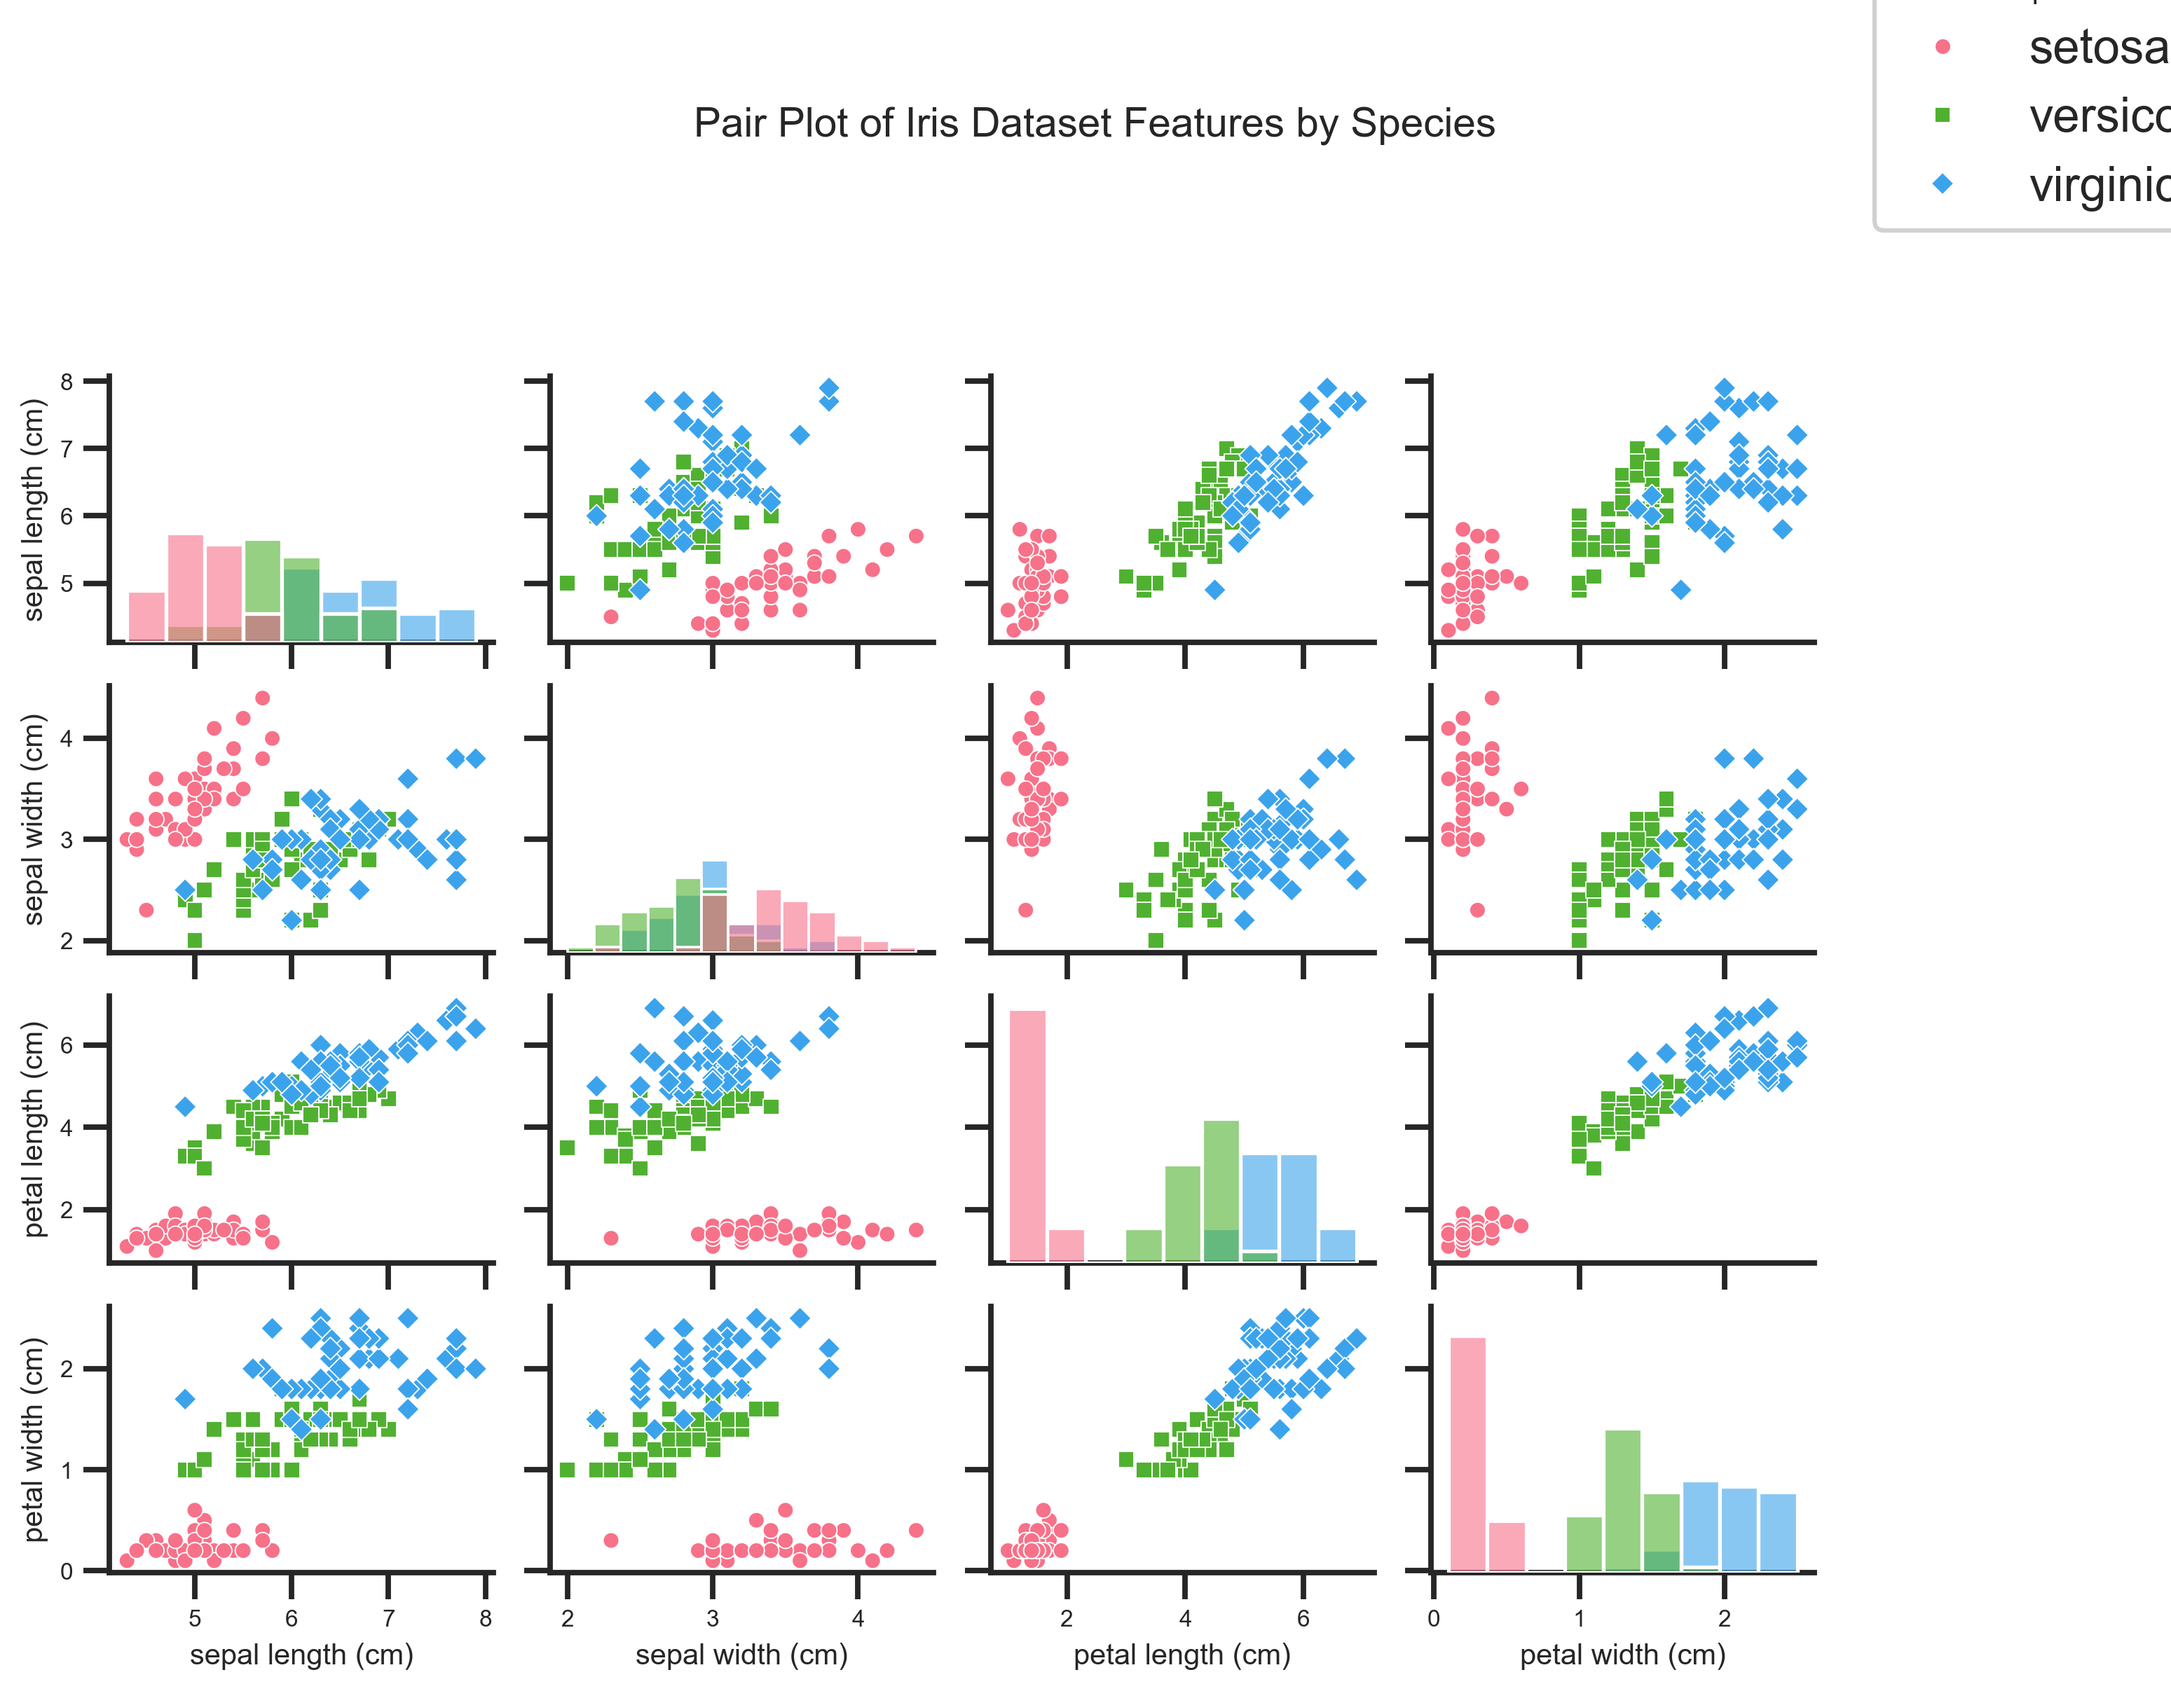
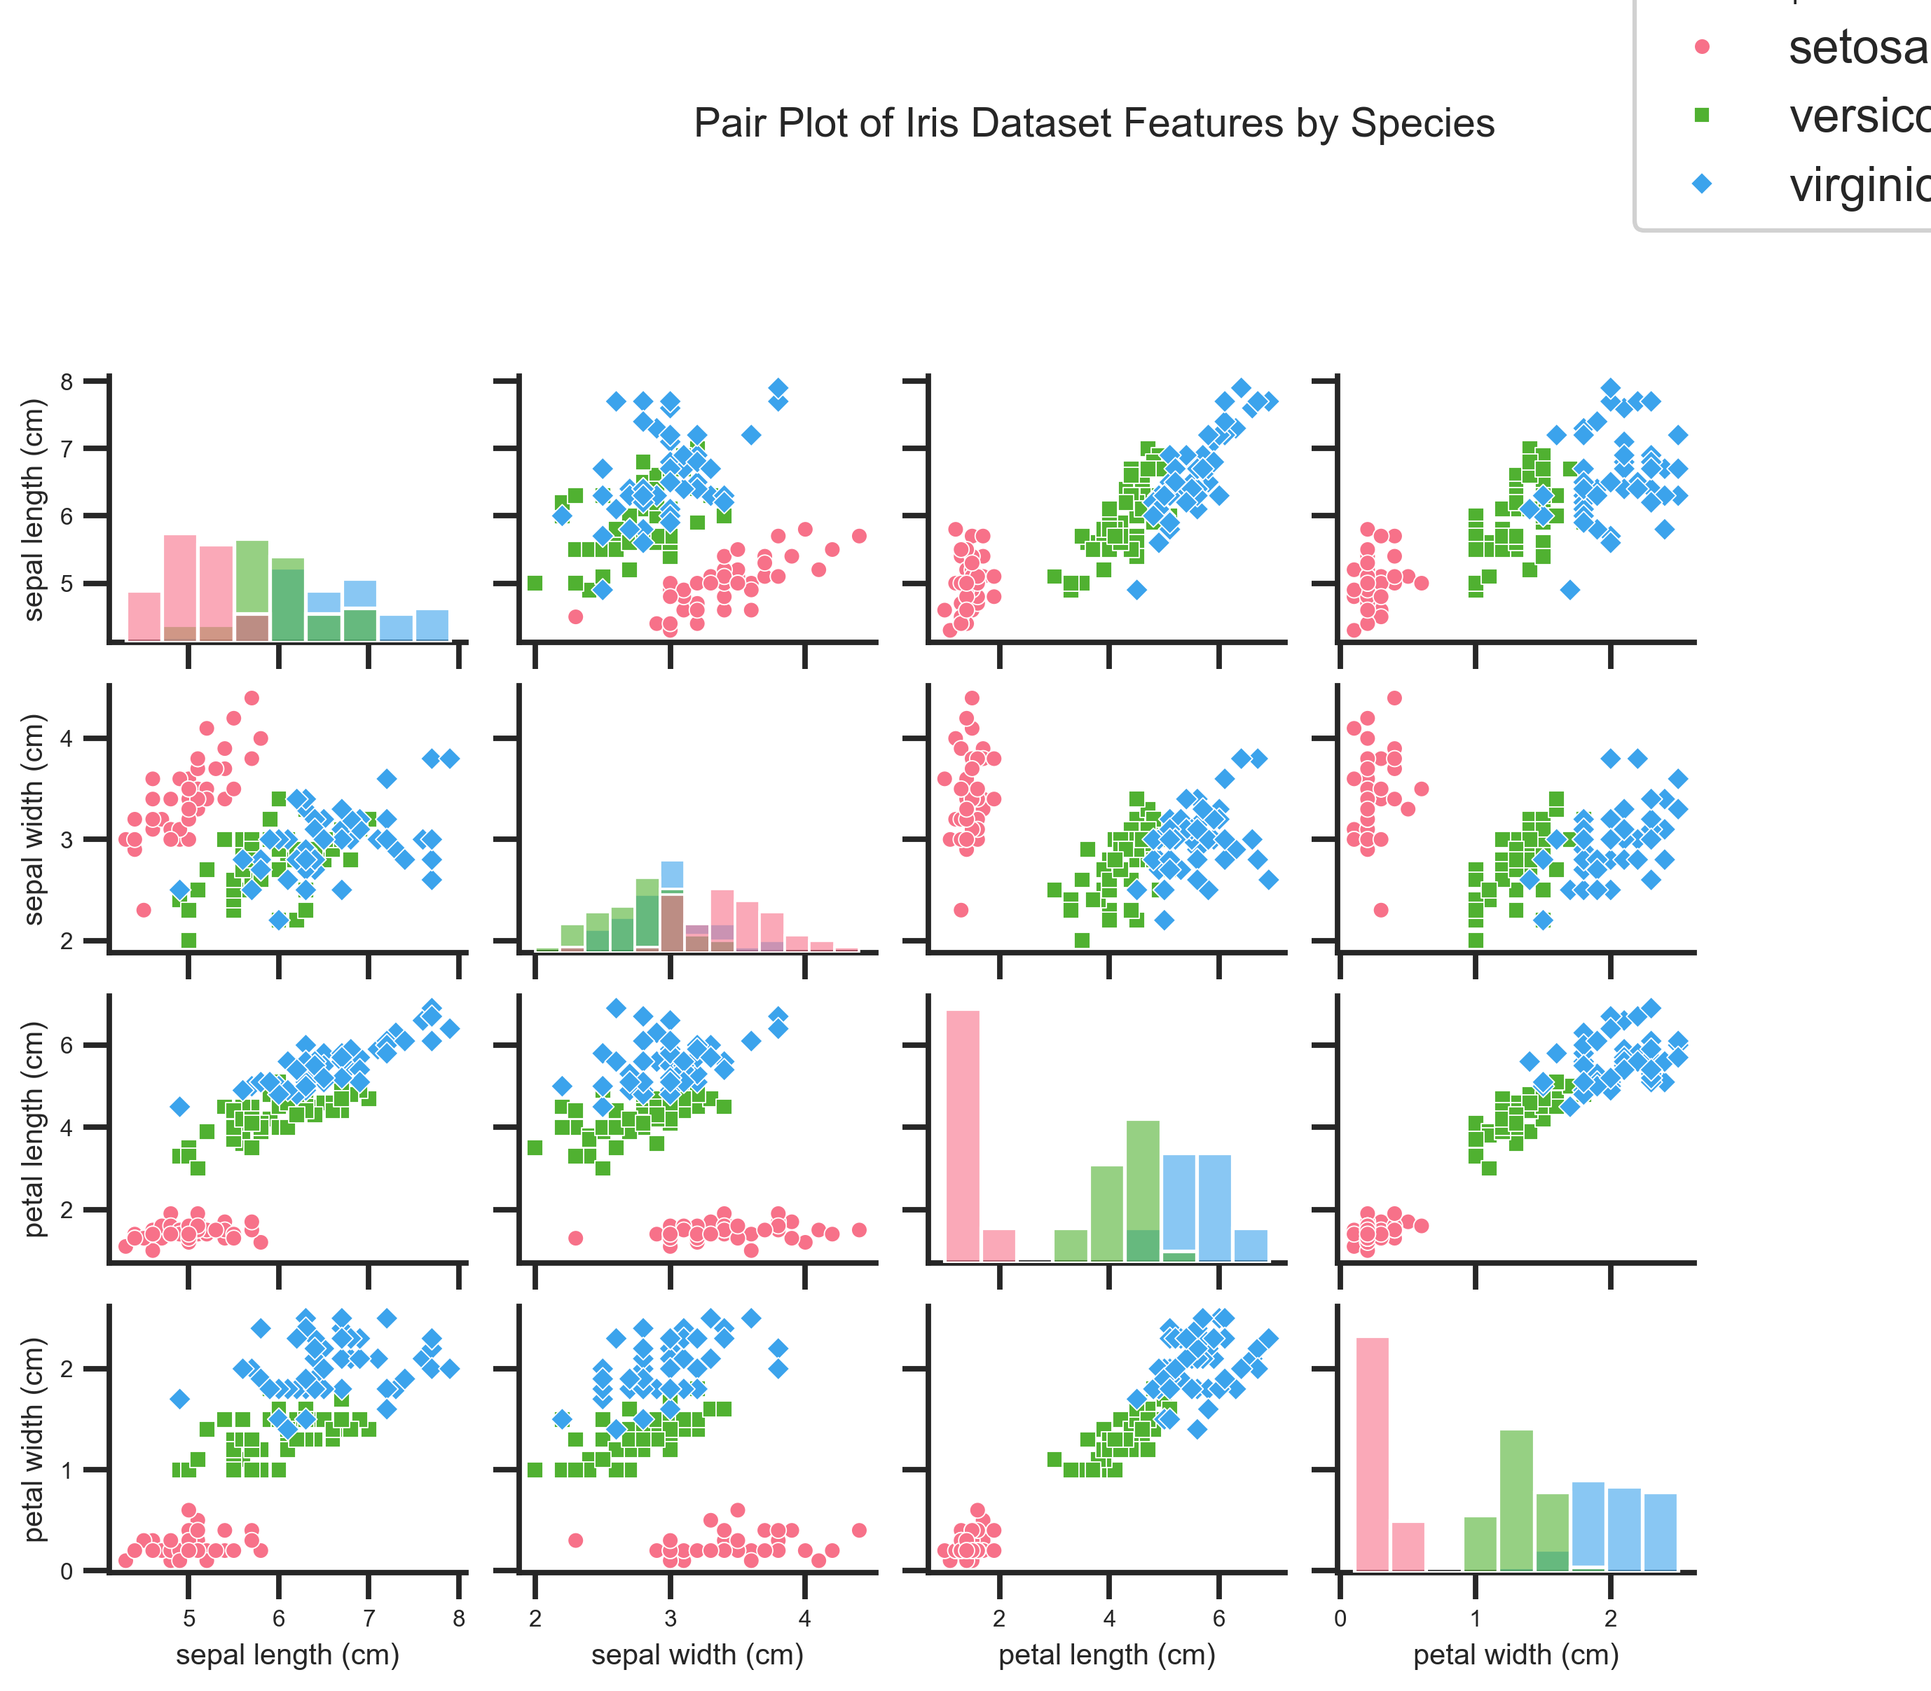
Update pair_plot.py to move legend left and prevent cutoff in saved PNG

diff --git a/src/visualizations/pair_plot.py b/src/visualizations/pair_plot.py
@@ -38,14 +38,14 @@ def create_iris_pair_plot(save_path="figures/pair_plot.png"):
         ax.set_ylabel(ax.get_ylabel(), fontsize=10)
 
     # Reposition and modify legend (to top-right)
-    pair_plot._legend.set_bbox_to_anchor((0.95, 0.95))
+    pair_plot._legend.set_bbox_to_anchor((0.85, 0.95))
     pair_plot._legend.set_frame_on(True)
     pair_plot._legend.get_frame().set_alpha(0.9)
     pair_plot._legend.set_title("Species", prop={'size': 10})
 
     # Adjust plot aesthetics to ensure title and legend visibility
     pair_plot.figure.suptitle("Pair Plot of Iris Dataset Features by Species", y=0.98, fontsize=14)
-    pair_plot.figure.subplots_adjust(top=0.82, right=0.80)
+    pair_plot.figure.subplots_adjust(top=0.82, right=0.75)
 
     # Ensure the 'figures' directory exists
     save_dir = os.path.dirname(save_path)
